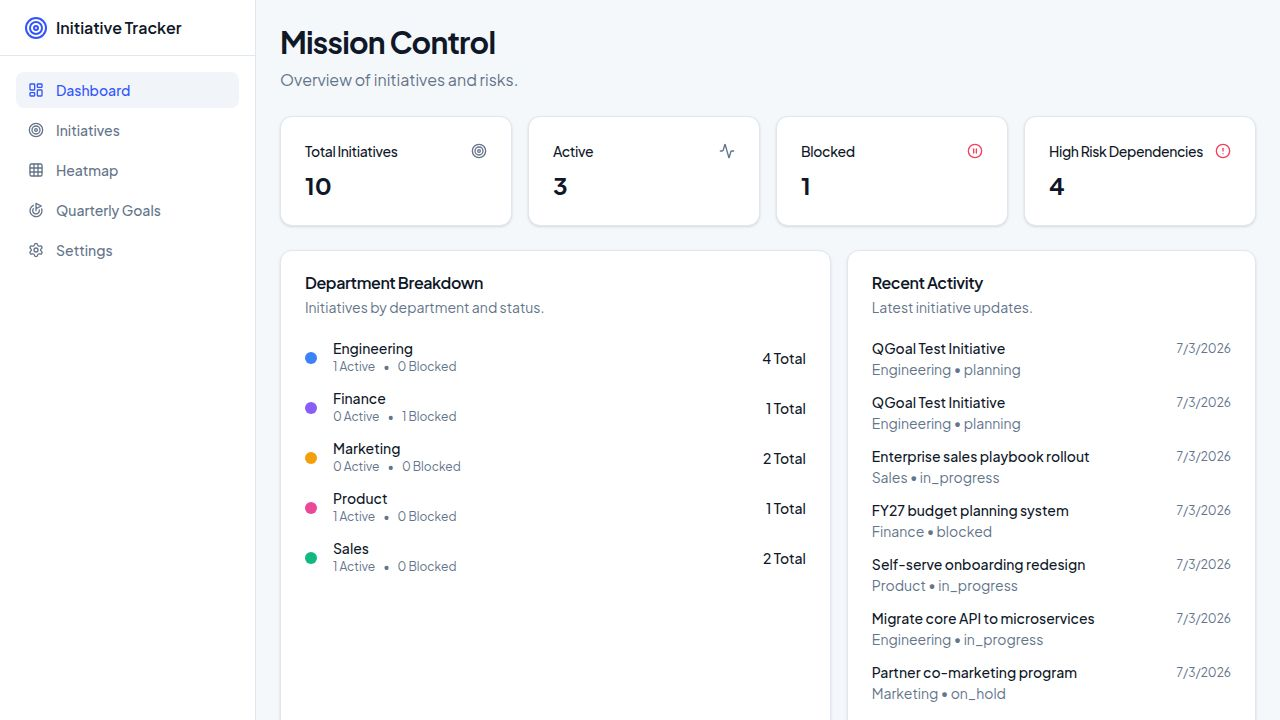
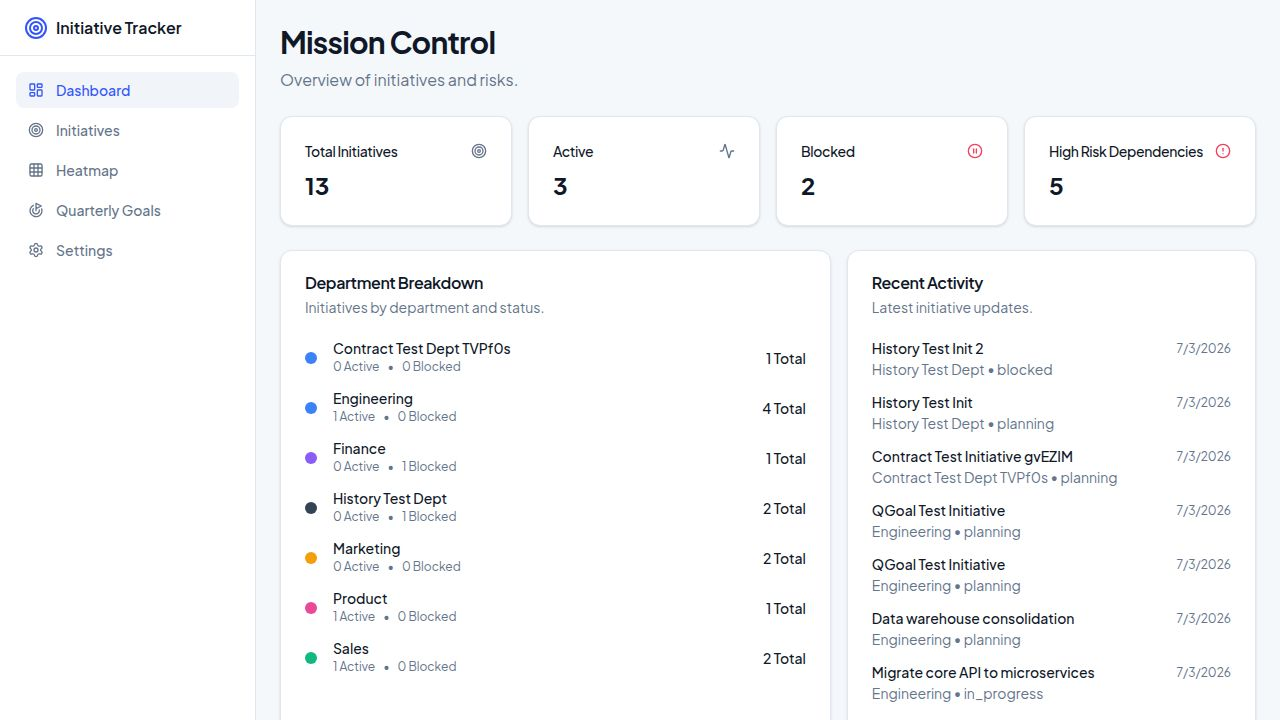
Add initiative status history tracking and display
Implement a new feature that records and displays the history of initiative status changes, including API endpoints, database schema, and frontend integration.

Replit-Commit-Author: Agent
Replit-Commit-Session-Id: f71033fe-43a8-4dc1-9588-8d3e40d8d7ca
Replit-Commit-Checkpoint-Type: full_checkpoint
Replit-Commit-Event-Id: 699dde7a-cb2e-4759-9065-46639b28e3d7
Replit-Commit-Screenshot-Url: https://storage.googleapis.com/screenshot-production-us-central1/8a84e41f-a56a-458f-997f-fe1a50df9302/f71033fe-43a8-4dc1-9588-8d3e40d8d7ca/25Qq67F
Replit-Helium-Checkpoint-Created: true

diff --git a/artifacts/api-server/src/routes/initiative-history.test.ts b/artifacts/api-server/src/routes/initiative-history.test.ts
@@ -1,0 +1,86 @@
+import { describe, it, expect, beforeAll, afterAll } from "vitest";
+import request from "supertest";
+import { eq } from "drizzle-orm";
+import app from "../app";
+import { db, departmentsTable, initiativesTable, initiativeHistoryTable } from "@workspace/db";
+
+let departmentId: number;
+let initiativeId: number;
+
+beforeAll(async () => {
+  const dept = await request(app)
+    .post("/api/departments")
+    .send({ name: "Contract Test History Dept", colorHex: "#998877" });
+  departmentId = dept.body.id;
+
+  const initiative = await request(app)
+    .post("/api/initiatives")
+    .send({
+      title: "Contract test history initiative",
+      description: "desc",
+      departmentId,
+      status: "planning",
+      priority: "low",
+      owner: "owner",
+      progress: 0,
+      startDate: "2026-01-01",
+      targetDate: "2026-02-01",
+    });
+  initiativeId = initiative.body.id;
+});
+
+afterAll(async () => {
+  await db.delete(initiativeHistoryTable).where(eq(initiativeHistoryTable.initiativeId, initiativeId));
+  await db.delete(initiativesTable).where(eq(initiativesTable.id, initiativeId));
+  await db.delete(departmentsTable).where(eq(departmentsTable.id, departmentId));
+});
+
+describe("GET /api/initiatives/:id/history", () => {
+  it("returns an empty list before any status change", async () => {
+    const res = await request(app).get(`/api/initiatives/${initiativeId}/history`);
+    expect(res.status).toBe(200);
+    expect(res.body).toEqual([]);
+  });
+
+  it("records a history entry when status changes via PATCH", async () => {
+    const res = await request(app).patch(`/api/initiatives/${initiativeId}`).send({ status: "in_progress" });
+    expect(res.status).toBe(200);
+
+    const history = await request(app).get(`/api/initiatives/${initiativeId}/history`);
+    expect(history.body).toHaveLength(1);
+    expect(history.body[0].oldStatus).toBe("planning");
+    expect(history.body[0].newStatus).toBe("in_progress");
+  });
+
+  it("does not record a history entry for non-status updates", async () => {
+    await request(app).patch(`/api/initiatives/${initiativeId}`).send({ progress: 75 });
+
+    const history = await request(app).get(`/api/initiatives/${initiativeId}/history`);
+    expect(history.body).toHaveLength(1);
+  });
+
+  it("does not record a history entry when status is set to the same value", async () => {
+    await request(app).patch(`/api/initiatives/${initiativeId}`).send({ status: "in_progress" });
+
+    const history = await request(app).get(`/api/initiatives/${initiativeId}/history`);
+    expect(history.body).toHaveLength(1);
+  });
+
+  it("orders entries most-recent-first across multiple status changes", async () => {
+    await request(app).patch(`/api/initiatives/${initiativeId}`).send({ status: "blocked" });
+    await request(app).patch(`/api/initiatives/${initiativeId}`).send({ status: "completed" });
+
+    const history = await request(app).get(`/api/initiatives/${initiativeId}/history`);
+    expect(history.body).toHaveLength(3);
+    expect(history.body[0].oldStatus).toBe("blocked");
+    expect(history.body[0].newStatus).toBe("completed");
+    expect(history.body[2].oldStatus).toBe("planning");
+    expect(history.body[2].newStatus).toBe("in_progress");
+  });
+
+  it("returns an empty list for a nonexistent initiative rather than an error", async () => {
+    const res = await request(app).get("/api/initiatives/999999999/history");
+    expect(res.status).toBe(200);
+    expect(res.body).toEqual([]);
+  });
+});

diff --git a/artifacts/api-server/src/routes/initiatives.ts b/artifacts/api-server/src/routes/initiatives.ts
@@ -1,6 +1,6 @@
 import { Router, type IRouter } from "express";
-import { and, eq } from "drizzle-orm";
-import { db, initiativesTable } from "@workspace/db";
+import { and, desc, eq } from "drizzle-orm";
+import { db, initiativesTable, initiativeHistoryTable } from "@workspace/db";
 import {
   ListInitiativesQueryParams,
   CreateInitiativeBody,
@@ -12,6 +12,8 @@ import {
   CreateInitiativeResponse,
   GetInitiativeResponse,
   UpdateInitiativeResponse,
+  ListInitiativeHistoryParams,
+  ListInitiativeHistoryResponse,
 } from "@workspace/api-zod";
 
 const router: IRouter = Router();
@@ -105,11 +107,29 @@ router.patch("/initiatives/:id", async (req, res): Promise<void> => {
     updateValues.targetDate = toDateString(targetDate);
   }
 
-  const [initiative] = await db
-    .update(initiativesTable)
-    .set(updateValues)
-    .where(eq(initiativesTable.id, params.data.id))
-    .returning();
+  const initiative = await db.transaction(async (tx) => {
+    const [existing] = await tx.select().from(initiativesTable).where(eq(initiativesTable.id, params.data.id));
+
+    if (!existing) {
+      return undefined;
+    }
+
+    const [updated] = await tx
+      .update(initiativesTable)
+      .set(updateValues)
+      .where(eq(initiativesTable.id, params.data.id))
+      .returning();
+
+    if (parsed.data.status !== undefined && parsed.data.status !== existing.status) {
+      await tx.insert(initiativeHistoryTable).values({
+        initiativeId: params.data.id,
+        oldStatus: existing.status,
+        newStatus: parsed.data.status,
+      });
+    }
+
+    return updated;
+  });
 
   if (!initiative) {
     res.status(404).json({ error: "Initiative not found" });
@@ -117,6 +137,22 @@ router.patch("/initiatives/:id", async (req, res): Promise<void> => {
   }
 
   res.json(UpdateInitiativeResponse.parse(initiative));
+});
+
+router.get("/initiatives/:id/history", async (req, res): Promise<void> => {
+  const params = ListInitiativeHistoryParams.safeParse(req.params);
+  if (!params.success) {
+    res.status(400).json({ error: params.error.message });
+    return;
+  }
+
+  const history = await db
+    .select()
+    .from(initiativeHistoryTable)
+    .where(eq(initiativeHistoryTable.initiativeId, params.data.id))
+    .orderBy(desc(initiativeHistoryTable.changedAt));
+
+  res.json(ListInitiativeHistoryResponse.parse(history));
 });
 
 router.delete("/initiatives/:id", async (req, res): Promise<void> => {

diff --git a/artifacts/initiative-tracker/src/components/initiative-detail-dialog.tsx b/artifacts/initiative-tracker/src/components/initiative-detail-dialog.tsx
@@ -5,7 +5,9 @@ import {
   useDeleteDependency,
   useListDepartments,
   useListRiskCategories,
+  useListInitiativeHistory,
   getListInitiativeDependenciesQueryKey,
+  getListInitiativeHistoryQueryKey,
   getListDependenciesQueryKey,
   getGetDashboardSummaryQueryKey,
   getGetDependencyHeatmapQueryKey,
@@ -46,6 +48,9 @@ export function InitiativeDetailDialog({ open, onOpenChange, initiative }: Initi
   const { data: riskCategories } = useListRiskCategories();
   const { data: dependencies, isLoading } = useListInitiativeDependencies(initiative?.id ?? 0, {
     query: { enabled: Boolean(initiative), queryKey: getListInitiativeDependenciesQueryKey(initiative?.id ?? 0) },
+  });
+  const { data: history, isLoading: isHistoryLoading } = useListInitiativeHistory(initiative?.id ?? 0, {
+    query: { enabled: Boolean(initiative), queryKey: getListInitiativeHistoryQueryKey(initiative?.id ?? 0) },
   });
 
   const [depFormOpen, setDepFormOpen] = useState(false);
@@ -177,6 +182,34 @@ export function InitiativeDetailDialog({ open, onOpenChange, initiative }: Initi
                 </TableBody>
               </Table>
             </div>
+          )}
+        </div>
+
+        <div className="mt-2">
+          <h3 className="font-semibold text-sm mb-2">Status History</h3>
+          {isHistoryLoading ? (
+            <p className="text-sm text-muted-foreground">Loading history...</p>
+          ) : history?.length ? (
+            <ul className="space-y-2 max-h-40 overflow-y-auto pr-1">
+              {history.map((entry) => (
+                <li key={entry.id} className="flex items-center justify-between text-sm">
+                  <span>
+                    <Badge variant="outline" className="mr-1">
+                      {entry.oldStatus}
+                    </Badge>
+                    →
+                    <Badge variant="secondary" className="ml-1">
+                      {entry.newStatus}
+                    </Badge>
+                  </span>
+                  <span className="text-xs text-muted-foreground">
+                    {new Date(entry.changedAt).toLocaleString()}
+                  </span>
+                </li>
+              ))}
+            </ul>
+          ) : (
+            <p className="text-sm text-muted-foreground">No status changes recorded yet.</p>
           )}
         </div>
 

diff --git a/lib/db/src/schema/initiative-history.ts b/lib/db/src/schema/initiative-history.ts
@@ -1,0 +1,21 @@
+import { integer, pgTable, serial, text, timestamp } from "drizzle-orm/pg-core";
+import { createInsertSchema } from "drizzle-zod";
+import { z } from "zod/v4";
+import { initiativesTable } from "./initiatives";
+
+export const initiativeHistoryTable = pgTable("initiative_history", {
+  id: serial("id").primaryKey(),
+  initiativeId: integer("initiative_id")
+    .notNull()
+    .references(() => initiativesTable.id, { onDelete: "cascade" }),
+  oldStatus: text("old_status").notNull(),
+  newStatus: text("new_status").notNull(),
+  changedAt: timestamp("changed_at", { withTimezone: true }).notNull().defaultNow(),
+});
+
+export const insertInitiativeHistorySchema = createInsertSchema(initiativeHistoryTable).omit({
+  id: true,
+  changedAt: true,
+});
+export type InsertInitiativeHistory = z.infer<typeof insertInitiativeHistorySchema>;
+export type InitiativeHistory = typeof initiativeHistoryTable.$inferSelect;

diff --git a/lib/db/src/schema/index.ts b/lib/db/src/schema/index.ts
@@ -3,3 +3,4 @@ export * from "./initiatives";
 export * from "./risk-categories";
 export * from "./dependencies";
 export * from "./settings";
+export * from "./initiative-history";

diff --git a/replit.md b/replit.md
@@ -35,7 +35,7 @@ A web app for tracking company initiatives across departments — status, priori
 ## Product
 
 - **Dashboard** — high-level summary of initiative status and department breakdowns.
-- **Initiatives** — full CRUD list with status/quarter filters, owner/department/priority/progress tracking, dependency management per initiative, and an "Export to Excel" button that downloads a formatted `.xlsx` snapshot of current status.
+- **Initiatives** — full CRUD list with status/quarter filters, owner/department/priority/progress tracking, dependency management per initiative, an "Export to Excel" button that downloads a formatted `.xlsx` snapshot of current status, and a per-initiative "Status History" audit trail (see below).
 - **Heatmap** — a department × dependency risk matrix; on mobile the Department column stays pinned (sticky) while scrolling horizontally through dependency columns.
 - **Quarterly Goals** — initiatives viewed against the current fiscal quarter.
 - **Settings** — tabbed page: General (fiscal quarter start date), Departments (CRUD), Risk Categories (CRUD). Old `/departments` and `/risk-categories` URLs redirect here with the correct tab pre-selected.
@@ -49,6 +49,7 @@ A web app for tracking company initiatives across departments — status, priori
 - **Centralized DB error handling.** `artifacts/api-server/src/lib/db-errors.ts` exposes `isUniqueViolation`/`isForeignKeyViolation`, used by a shared Express error-handling middleware in `app.ts` so routes don't hand-roll pg error-code checks. drizzle-orm wraps the underlying pg error, so the real error code is at `err.cause.code` (not `err.code`) — the helper checks both.
 - **Settings is a hardened singleton.** `getOrCreateSettings()` uses a fixed id (`SINGLETON_ID = 1`) with `onConflictDoNothing` upsert instead of select-then-insert, so concurrent first-access requests can't create duplicate rows.
 - **Test suite.** Vitest + Supertest contract tests in `artifacts/api-server/src/routes/*.test.ts` run against the real dev Postgres DB (no mocks/containers) using distinctive "Contract Test..." names and explicit FK-safe cleanup in `afterAll`. Frontend unit tests (quarter logic, Excel export) live under `artifacts/initiative-tracker/src/lib/*.test.ts`.
+- **Status history / audit trail.** `initiative_history` table (`lib/db/src/schema/initiative-history.ts`) records `oldStatus`/`newStatus`/`changedAt` whenever `PATCH /api/initiatives/:id` actually changes the `status` field (inserted inside the same `db.transaction()` as the update; no entry on same-value or non-status updates). Exposed via `GET /api/initiatives/:id/history` (newest first) and shown in the Initiative Detail dialog's "Status History" section.
 
 ## User preferences
 